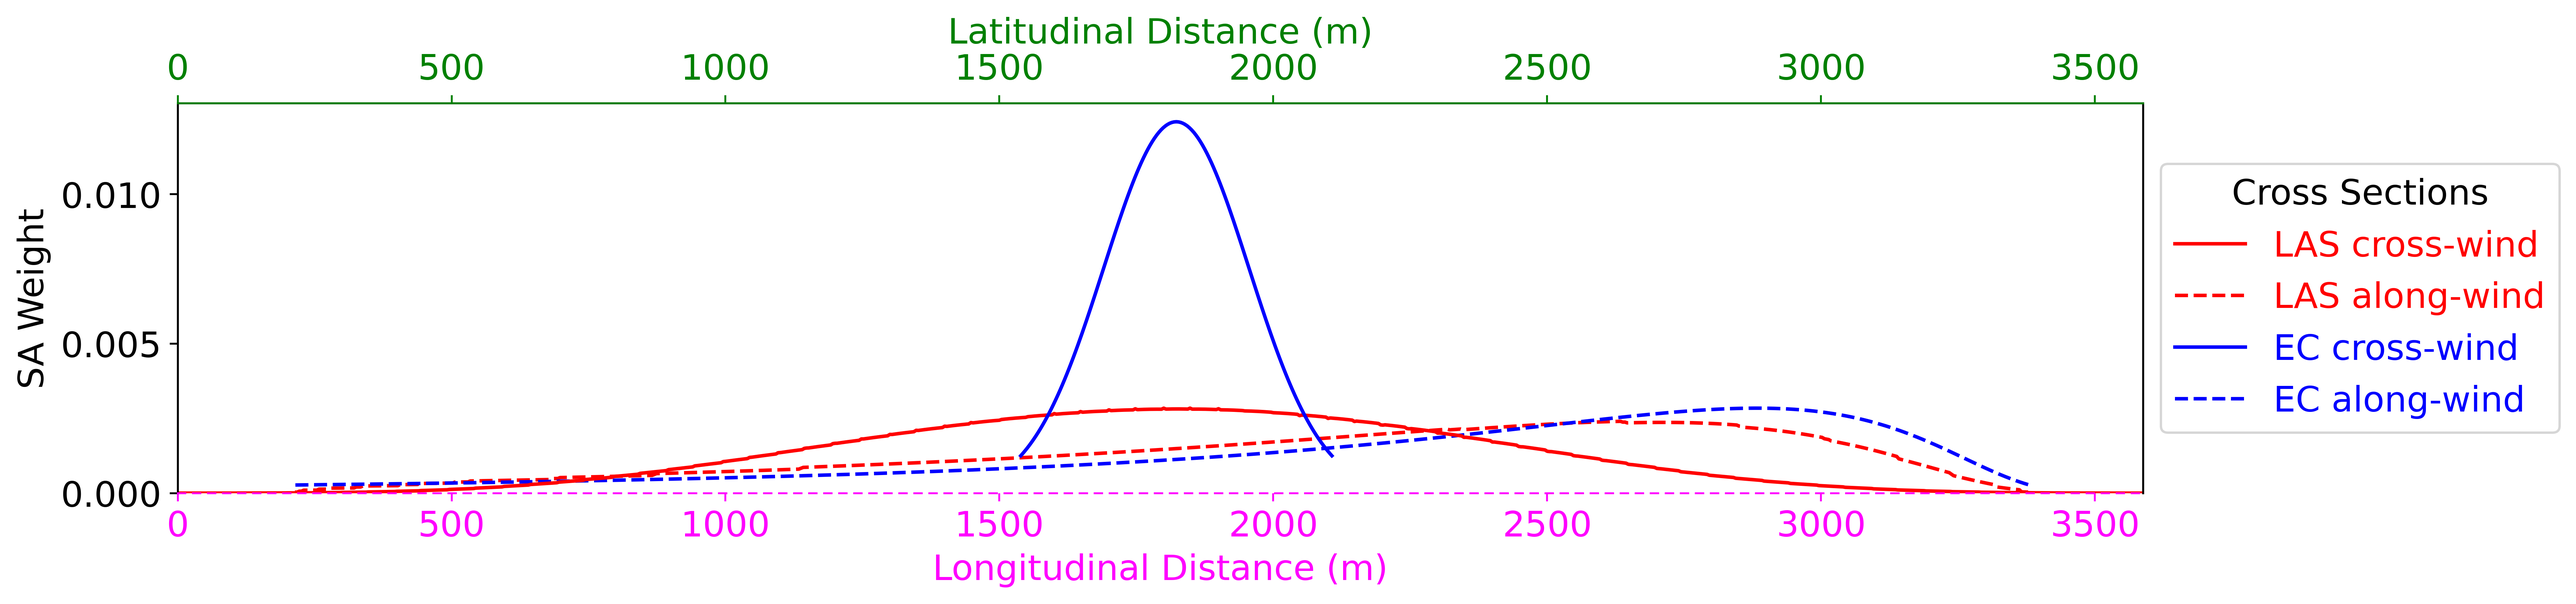
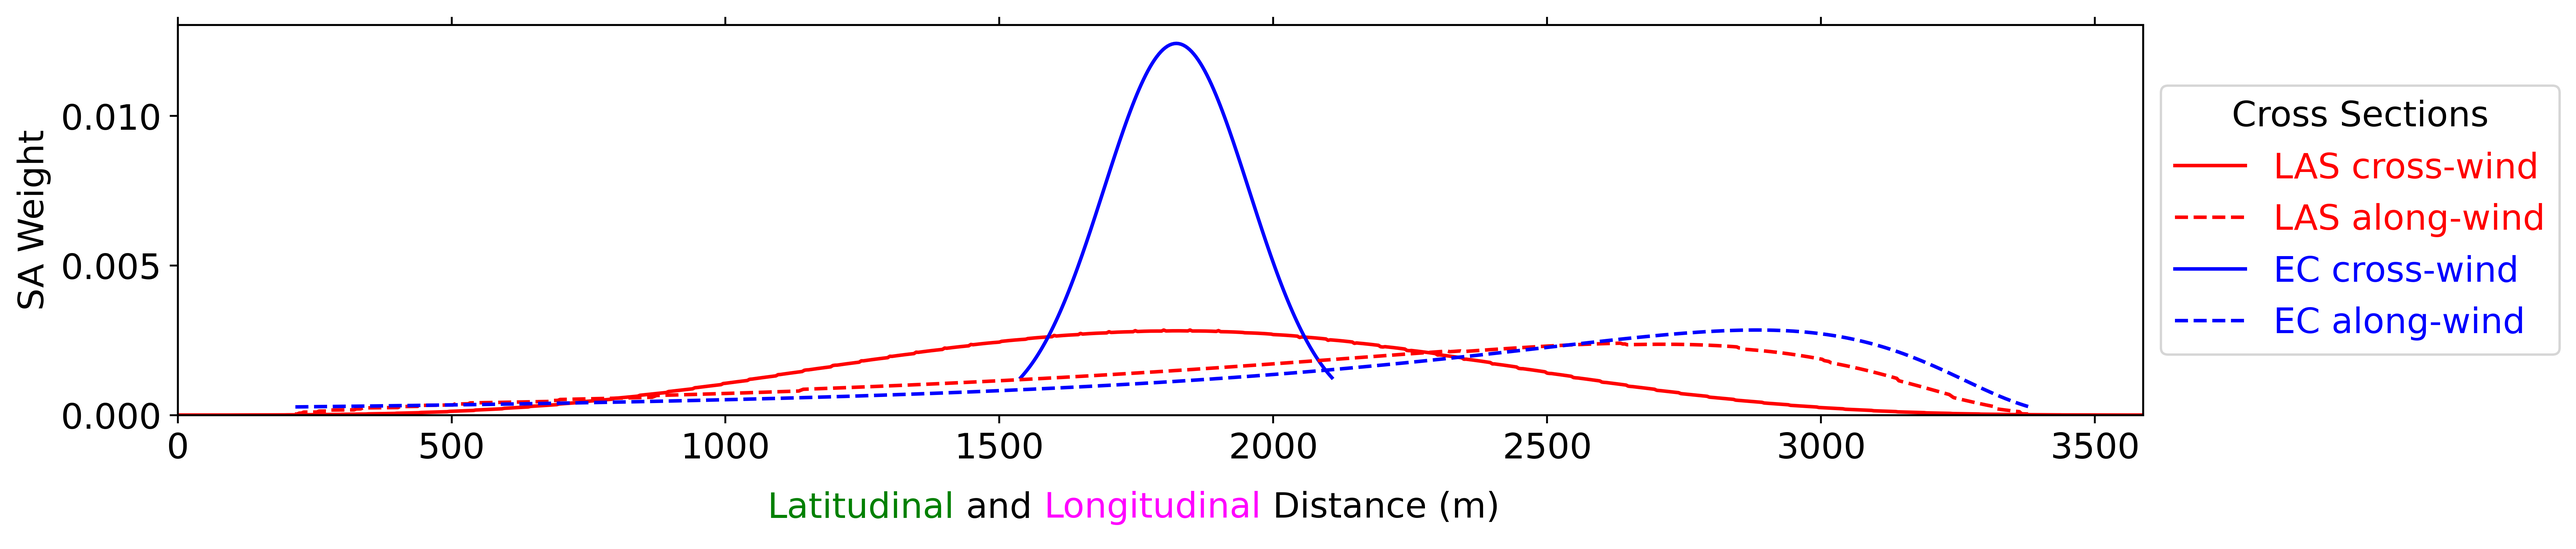
removed twin axis

diff --git a/scint_plots/concept_figure/concept_figure_funs.py b/scint_plots/concept_figure/concept_figure_funs.py
@@ -190,6 +190,33 @@ def handle_raster(file_list):
             'max_lat': max_lat}
 
 
+def multicolor_ylabel(ax, list_of_strings, list_of_colors, axis='x', anchorpad=0, **kw):
+    """this function creates axes labels with multiple colors
+    ax specifies the axes object where the labels should be drawn
+    list_of_strings is a list of all of the text items
+    list_if_colors is a corresponding list of colors for the strings
+    axis='x', 'y', or 'both' and specifies which label(s) should be drawn"""
+    from matplotlib.offsetbox import AnchoredOffsetbox, TextArea, HPacker, VPacker
+
+    # x-axis label
+    if axis == 'x' or axis == 'both':
+        boxes = [TextArea(text, textprops=dict(color=color, ha='left', va='bottom', **kw))
+                 for text, color in zip(list_of_strings, list_of_colors)]
+        xbox = HPacker(children=boxes, align="center", pad=0, sep=5)
+        anchored_xbox = AnchoredOffsetbox(loc=3, child=xbox, pad=anchorpad, frameon=False, bbox_to_anchor=(0.3, -0.3),
+                                          bbox_transform=ax.transAxes, borderpad=0.)
+        ax.add_artist(anchored_xbox)
+
+    # y-axis label
+    if axis == 'y' or axis == 'both':
+        boxes = [TextArea(text, textprops=dict(color=color, ha='left', va='bottom', rotation=90, **kw))
+                 for text, color in zip(list_of_strings[::-1], list_of_colors)]
+        ybox = VPacker(children=boxes, align="center", pad=0, sep=5)
+        anchored_ybox = AnchoredOffsetbox(loc=3, child=ybox, pad=anchorpad, frameon=False, bbox_to_anchor=(-0.10, 0.2),
+                                          bbox_transform=ax.transAxes, borderpad=0.)
+        ax.add_artist(anchored_ybox)
+
+
 def plot_concept_axis(in_dict, save_path):
     """
 
@@ -208,15 +235,18 @@ def plot_concept_axis(in_dict, save_path):
     max_lat = in_dict['max_lat']
 
     fig, ax = plt.subplots(figsize=(15, 3))
+
     ax2 = ax.twiny()
+
     # east to west
-    las_lat = ax2.plot(df_las_lat.index - min_lat, df_las_lat.x_crosssec_to1_path, label='LAS cross-wind',
-                       color='red',
-                       linestyle='-')
-    ec_lat = ax2.plot(df_ec_lat.index - min_lat, df_ec_lat.x_crosssec_to1_point, label='EC cross-wind', color='blue',
+    las_lat = ax.plot(df_las_lat.index - min_lat, df_las_lat.x_crosssec_to1_path, label='LAS cross-wind',
+                      color='red',
                       linestyle='-')
-    ax2.set_xlabel('Latitudinal Distance (m)')
-    ax2.set_ylabel('SA Weight')
+
+    ec_lat = ax.plot(df_ec_lat.index - min_lat, df_ec_lat.x_crosssec_to1_point, label='EC cross-wind', color='blue',
+                     linestyle='-')
+
+    # ax2.set_xlabel('Latitudinal Distance (m)')
 
     # north to south
     las_lon = ax.plot(df_las_lon.index - min_lon, df_las_lon.y_crosssec_to1_path, label='LAS along-wind',
@@ -224,7 +254,9 @@ def plot_concept_axis(in_dict, save_path):
                       linestyle='--')
     ec_lon = ax.plot(df_ec_lon.index - min_lon, df_ec_lon.y_crosssec_to1_point, label='EC along-wind', color='blue',
                      linestyle='--')
-    ax.set_xlabel('Longitudinal Distance (m)')
+
+    # ax.set_xlabel('Longitudinal Distance (m)')
+
     ax.ticklabel_format(style='plain')
     lns = las_lat + las_lon + ec_lat + ec_lon
     labs = [l.get_label() for l in lns]
@@ -236,16 +268,16 @@ def plot_concept_axis(in_dict, save_path):
     plt.gca().set_ylim(bottom=0)
 
     # colour
-    ax2.spines['top'].set_color('green')
-    ax2.tick_params(axis='x', colors='green')
-    ax2.xaxis.label.set_color('green')
-    ax2.spines['bottom'].set_color('magenta')
-    ax.tick_params(axis='x', colors='magenta')
-    ax.xaxis.label.set_color('magenta')
+    # ax2.spines['top'].set_color('green')
+    # ax2.tick_params(axis='x', colors='green')
+    # ax2.xaxis.label.set_color('green')
+    # ax2.spines['bottom'].set_color('magenta')
+    # ax.tick_params(axis='x', colors='magenta')
+    # ax.xaxis.label.set_color('magenta')
 
     # line style
-    ax2.spines['bottom'].set_linestyle((0,(4,4)))
-    ax.spines['bottom'].set_visible(False)
+    # ax2.spines['bottom'].set_linestyle((0,(4,4)))
+    # ax.spines['bottom'].set_visible(False)
 
     # CHANGE HERE
     ax.set_ylabel('SA Weight')
@@ -255,6 +287,13 @@ def plot_concept_axis(in_dict, save_path):
 
     ax.set_xlim(0, max_lon - min_lon)
     ax2.set_xlim(0, max_lat - min_lat)
+
+    plt.setp(ax2.get_xticklabels(), visible=False)
+
+    multicolor_ylabel(ax, ('Latitudinal', 'and', 'Longitudinal', 'Distance (m)'), ('green', 'k', 'magenta', 'k'),
+                      axis='x', size=15)
+
+    # plt.show()
 
     plt.savefig(save_path + 'sa_axis' + '.png', bbox_inches='tight', dpi=500)
     print('end')
